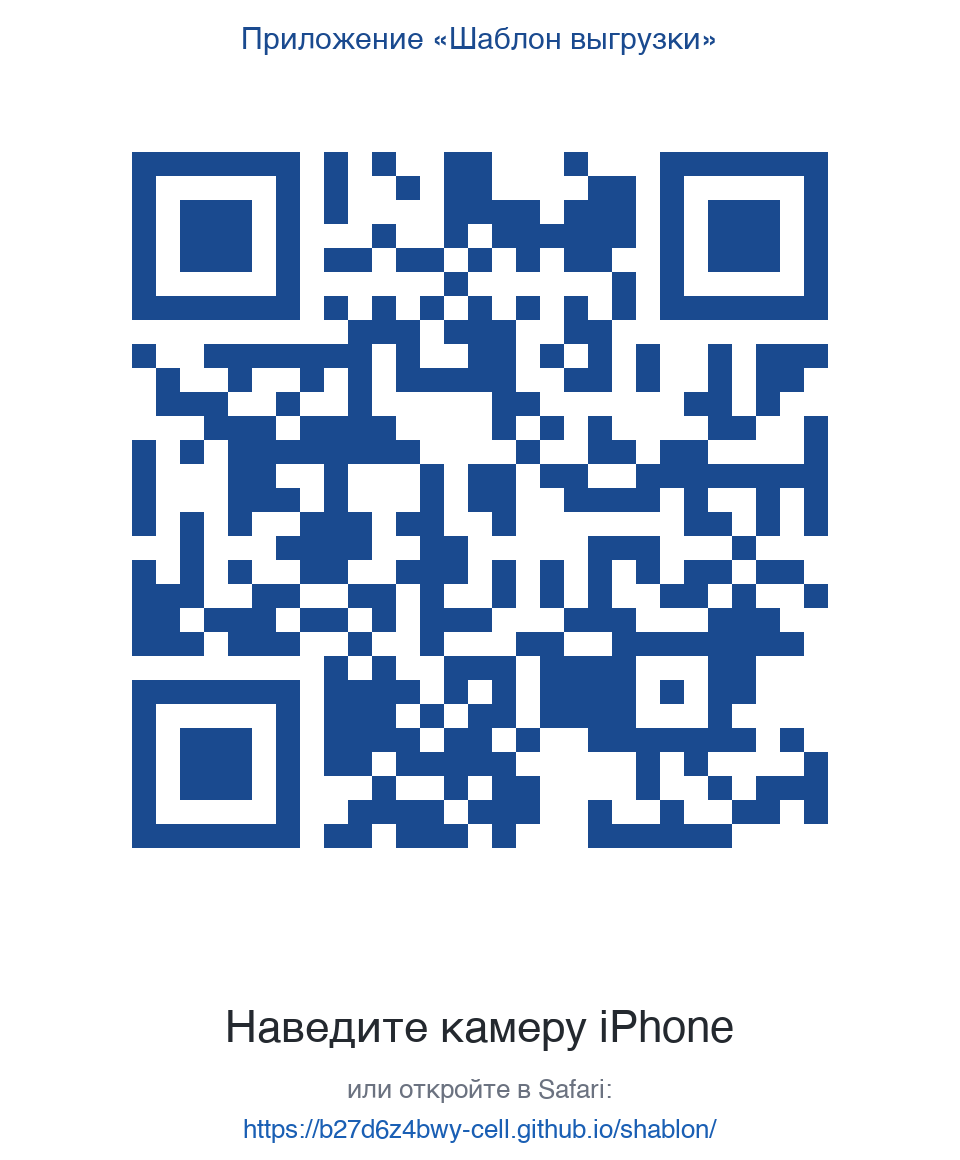
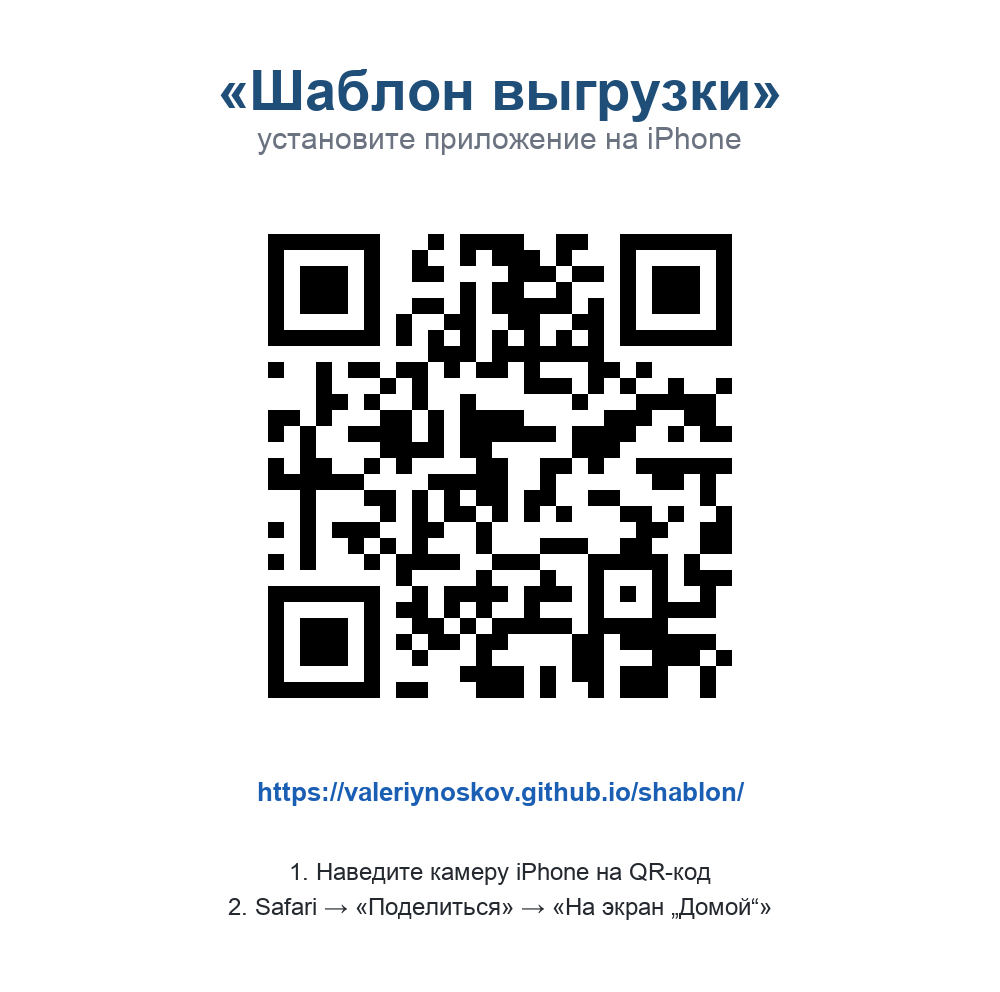
Переезд на аккаунт ValeriyNoskov: новые QR-коды и адрес в README

diff --git a/README.md b/README.md
@@ -24,7 +24,7 @@
 3. Загрузите в него **все файлы из этой папки** (Add file → Upload files).
 4. Settings → Pages → Source: `main` → Save.
 5. Через 1–2 минуты сайт будет доступен по адресу
-   `https://ВАШ_НИК.github.io/shablon/`
+   `https://ValeriyNoskov.github.io/shablon/`
 
 Альтернатива без git: Netlify Drop (app.netlify.com/drop) — перетащить папку, нужен аккаунт.
 
